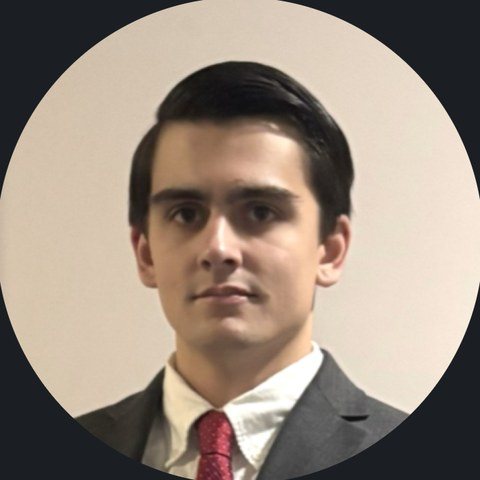
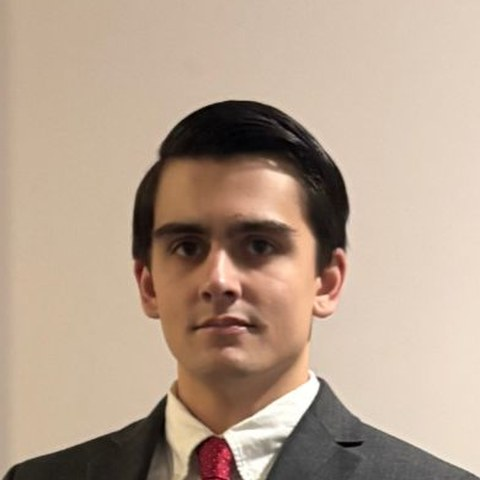
Use sharper headshot cropped from the full photo

diff --git a/index.html b/index.html
@@ -74,7 +74,7 @@
       <div>
         <p class="kicker">Electrical Engineering · Arizona State University · Class of 2028</p>
         <div class="name-row">
-          <img class="headshot" src="assets/images/headshot.jpg" alt="Headshot of William Graves" width="480" height="480">
+          <img class="headshot" src="assets/images/headshot.jpg?v=2" alt="Headshot of William Graves" width="480" height="480">
           <h1>William Graves</h1>
         </div>
         <p class="lede">Semiconductor processing, device characterization and circuits.</p>
